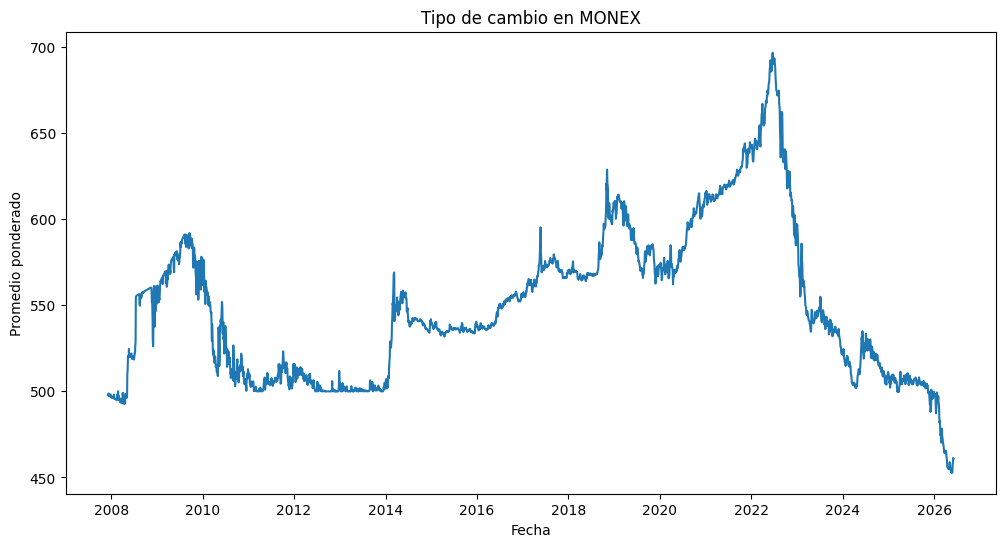
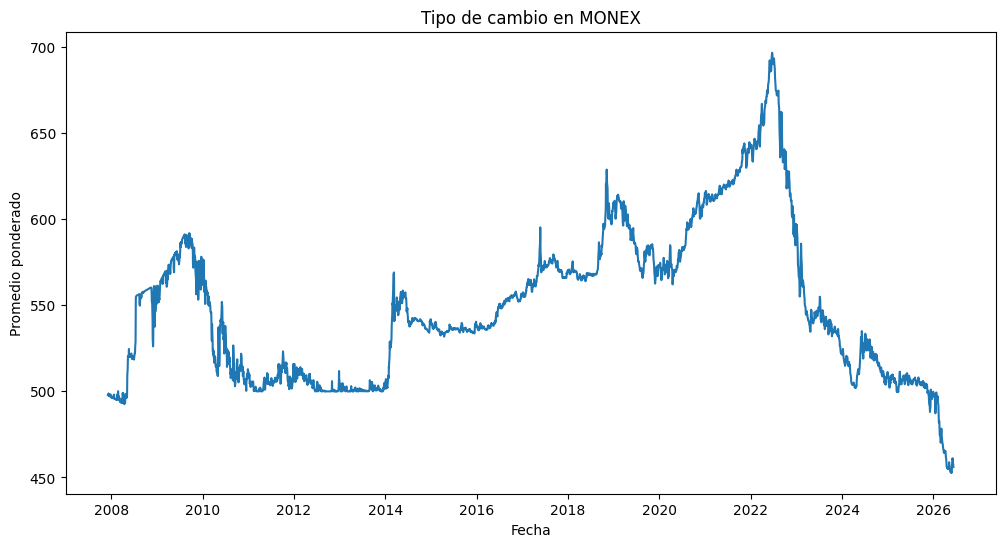
Add files via upload

diff --git a/index.html b/index.html
@@ -18,9 +18,12 @@
     <img src="grafico.png" alt="Tipo de cambio en MONEX">
 </body>
 <body>
-    <img src="grafico2.png" alt="Tipo de cambio en MONEX">
+    <img src="grafico2.png" alt="Fuerza del cambio de precio con respecto al monto negociado en MONEX">
 </body>
 <p>
     El color de la línea representa el monto total negociado en MONEX. El rojo indica mayores montos transados en la sesión de MONEX del día al que corresponde el precio. Los grises indican menores montos. En la actual tendencia a la baja del precio, las caídas de precio tienden a ocurrir con altos montos transados mientras que las subidas tienden a ocurrir con bajos montos. Una interpretación es que los comerciantes de divisas no apoyan con sus transacciones subidas de precio, no parecen creer que una subida en precio signifique el inicio de una tendencia alcista; en cambio, parecen asustarse cuando el precio cae y transan mucho, quizá en la creencia de que la caída puntual anuncia una tendencia bajista a futuro.
 </p>
+<body>
+    <img src="grafico3.png" alt="IPC de Costa Rica dividido entre el CPI de Estados Unidos">
+</body>
 </html>